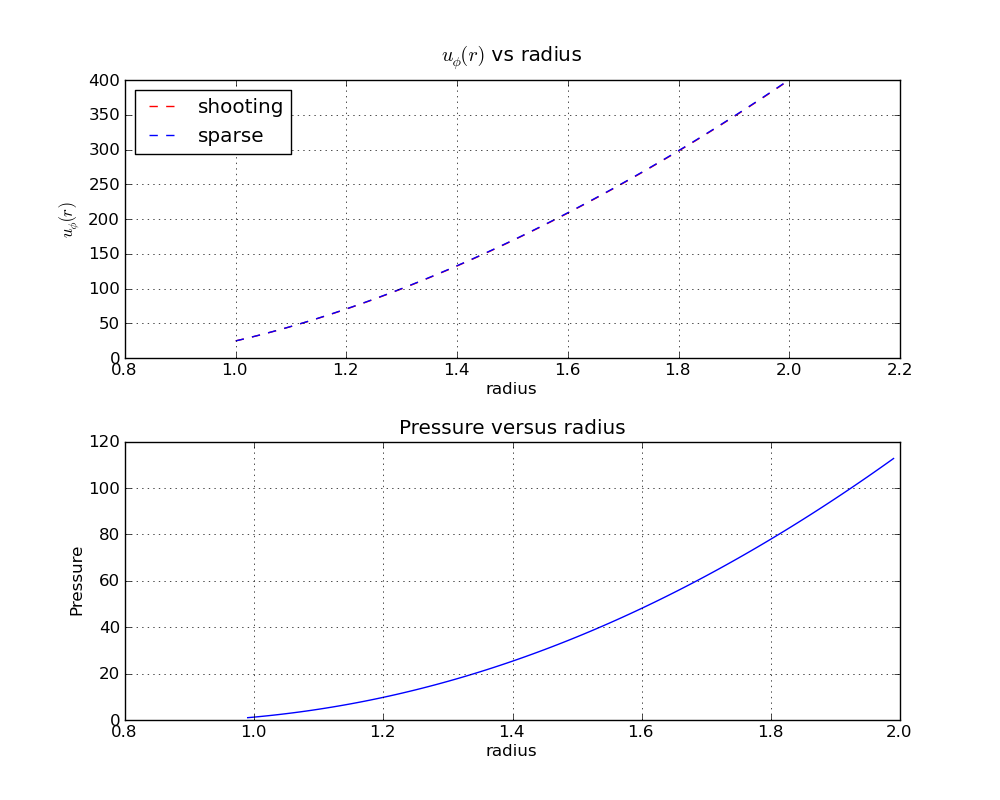
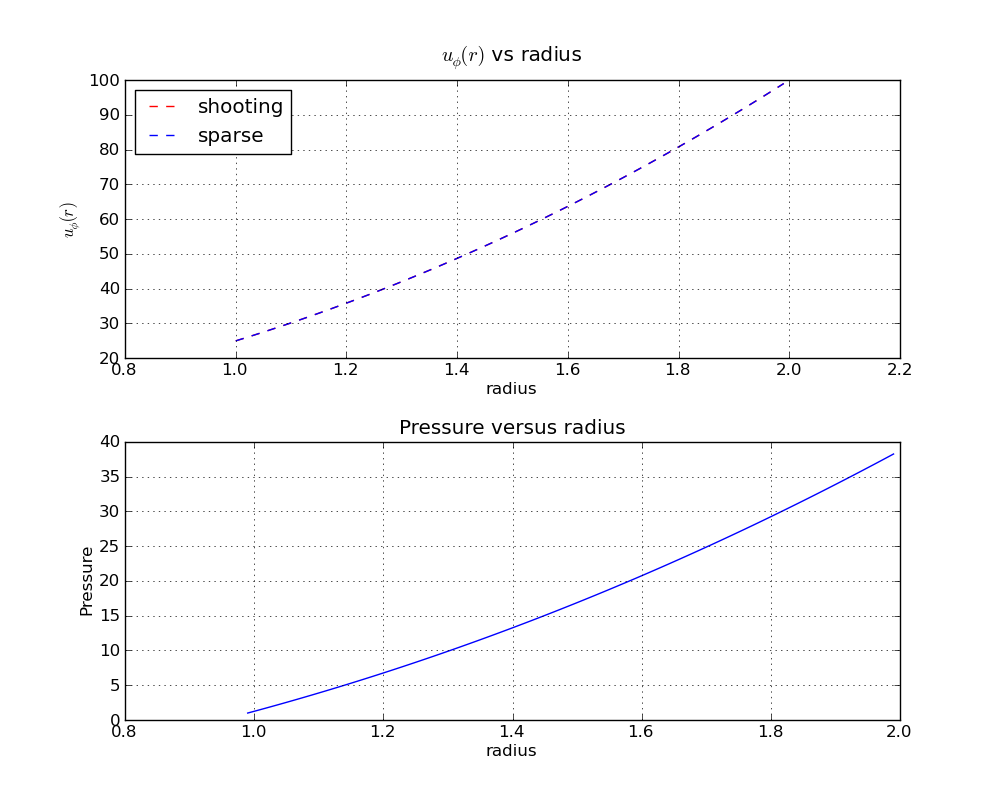
all works  here

diff --git a/steady.c b/steady.c
@@ -88,7 +88,7 @@ int main(int argc, char **argv)
     //V2 = r2*omega;
     
     V1 = 5.0;
-    V2 = 20.0;
+    V2 = 10.0;
     
     double s, s_old;
     
